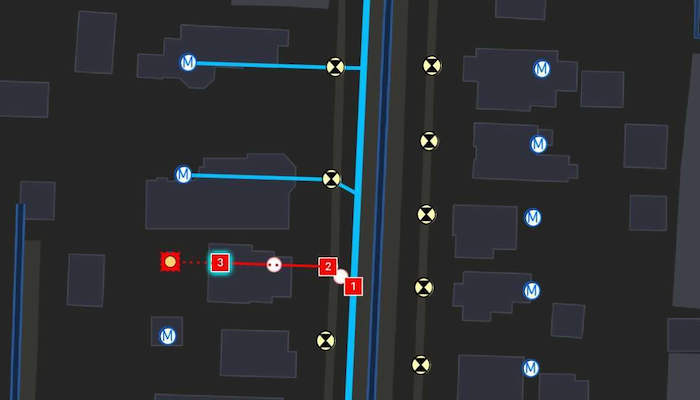
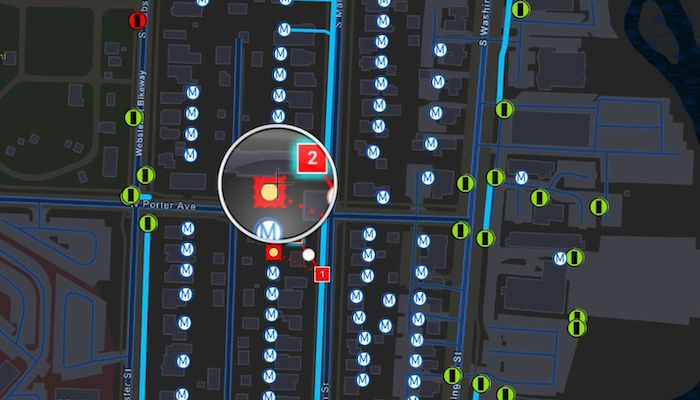
Remove setViewpointCenter()
- Replace image

diff --git a/snap-geometry-edits/src/main/java/com/esri/arcgismaps/sample/snapgeometryedits/components/MapViewModel.kt b/snap-geometry-edits/src/main/java/com/esri/arcgismaps/sample/snapgeometryedits/components/MapViewModel.kt
@@ -79,8 +79,6 @@ class MapViewModel(
      */
     init {
         sampleCoroutineScope.launch {
-            // set the map's viewpoint to Naperville, Illinois
-            mapViewProxy.setViewpointCenter(Point(-9812798.0, 5126406.0), 2000.0)
             // set the feature layer's feature tiling mode
             map.loadSettings.featureTilingMode =
                 FeatureTilingMode.EnabledWithFullResolutionWhenSupported
